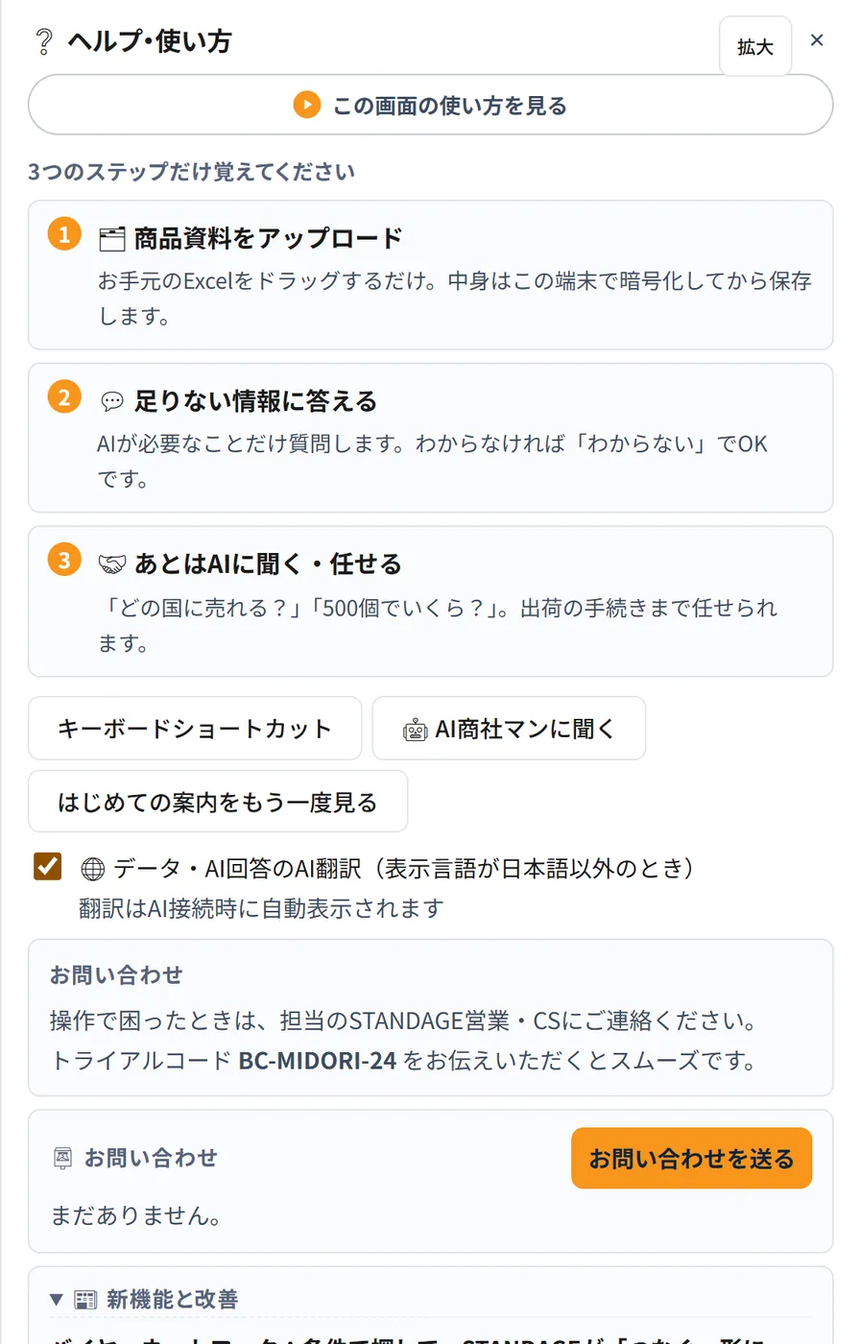
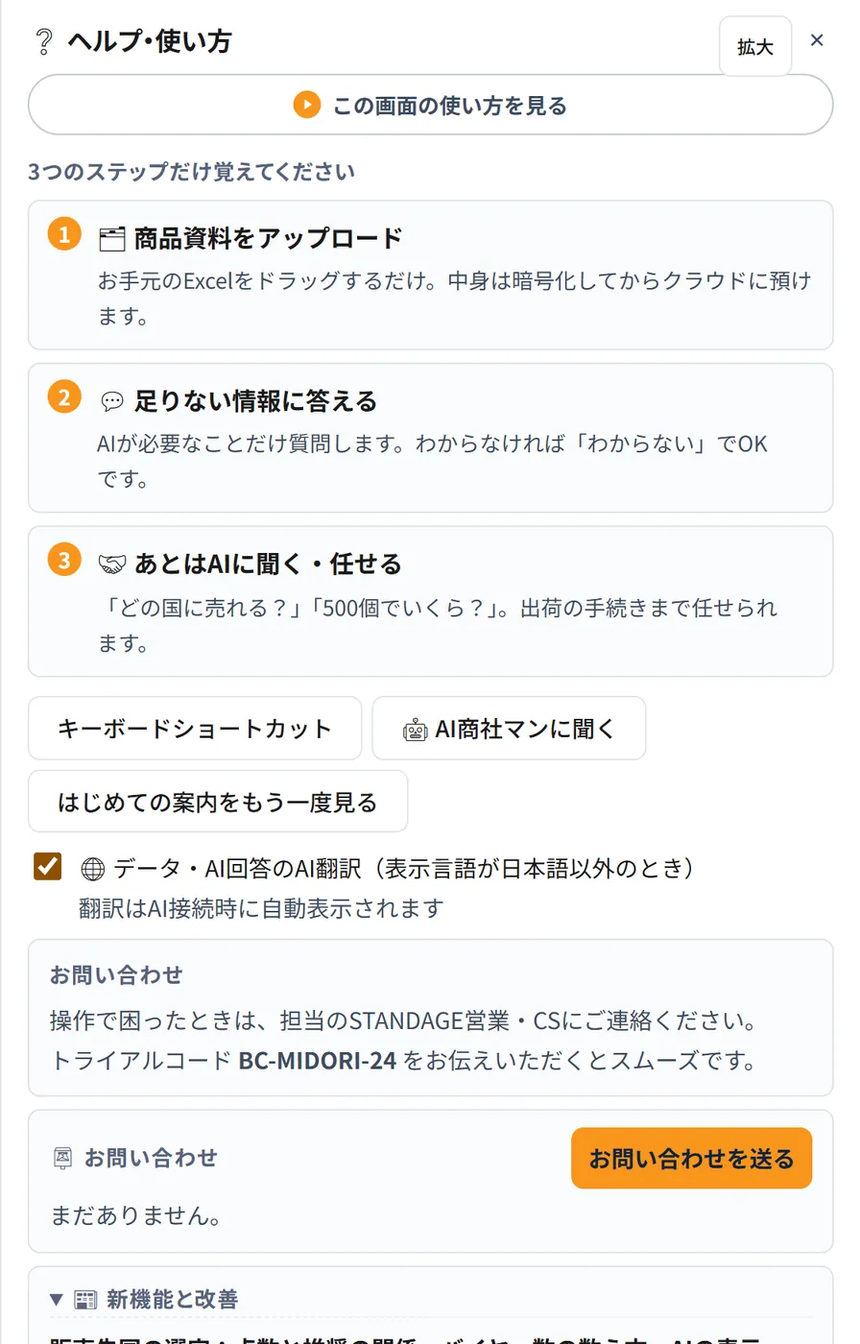
はじめてガイド Ver.3.8.2（アプリ v21.54 に合わせた・guide/ だけ）：ログイン画面・はじめての3ステップ・ヘルプの写真を v21.54 で撮り直し、P.06「知っておくと安心」とよくある質問（タブを閉じると・他社に見られませんか）に「作業中の控えはこの端末のブラウザに置き、ログアウトすると消えます（タブを閉じただけでは残ります）。共用の端末では、使い終わったらログアウト」を、依頼ページの注記を「回答は暗号化して、依頼元に届きます」にした。アプリ本体（index.html・version.json・r.html）は変えていない

diff --git a/guide/index.html b/guide/index.html
@@ -4722,7 +4722,7 @@ button {
       <li data-k="1:1">はじめてのときは<b>「3つのステップ」</b>が表示されます：資料を入れる → 質問に答える → AIに聞く・任せる<span class="sc">画面2</span></li>
       <li data-k="1:4"><b>「さっそく始める」</b>で、商品の登録に進みます<span class="sc">画面2</span></li>
     </ol>
-    <div class="op-box op-tip"><span class="bi"><svg><use href="#i-lock"/></svg></span><h4>知っておくと安心</h4><p>商品データは、端末で暗号化してから保存・同期されます。同時にログインできるのは <b>PC1台＋スマホ1台</b>まで。最後の操作から<b>3時間</b>で自動的にログアウトし、次は前回の画面から始まります。利用期限が過ぎても<b>30日間</b>は読み取り専用で入れ、データを書き出せます。</p></div>
+    <div class="op-box op-tip"><span class="bi"><svg><use href="#i-lock"/></svg></span><h4>知っておくと安心</h4><p>商品・書類などのデータは、サーバーに預ける前に端末で暗号化します。作業中の控えはこの端末のブラウザに置き、ログアウトすると消えます（タブを閉じただけでは残ります）。共用の端末では、使い終わったらログアウトしてください。最後の操作から<b>3時間</b>で自動的にログアウトします。</p></div>
     <div class="op-foot">
       <div class="op-box op-out"><span class="bi"><svg><use href="#i-cloud"/></svg></span><h4>できあがるもの</h4><p>貴社専用の作業スペース（PC・スマホ・メンバーで同じ内容を共有）</p></div>
       <div class="op-box op-why"><span class="bi"><svg><use href="#i-target"/></svg></span><h4>貿易の成功にどう効くか</h4><p>担当者が変わっても、会社の情報とやり取りが1か所に残り続けます。</p></div>
@@ -5084,7 +5084,7 @@ button {
     <h2 class="op-title">書類とファイルを、ドキュメントに集める</h2>
     <p class="op-lead">契約書・証明書・成分表・写真・発注書・船積書類などを1か所に。やりとり・商談記録・メモに付けたファイルも、自動でここに並びます。</p>
     <ol class="op-steps">
-      <li data-k="0:1"><b>「アップロード」</b>（ドラッグ＆ドロップでも）。端末で暗号化して保存します（1件20MBまで）</li>
+      <li data-k="0:1"><b>「アップロード」</b>（ドラッグ＆ドロップでも）。端末で暗号化してからサーバーに預けます（1件20MBまで）</li>
       <li data-k="0:6"><b>種類</b>は名前から自動で判定され、あとで変えられます。<b>公開範囲</b>は 共有／社内のみ／自分だけ</li>
       <li data-k="0:5">種類・アップロード元・公開範囲で絞り込み、<b>まとめてダウンロード</b>もできます</li>
       <li data-k="0:2"><b>「リンクを登録」</b>：Google ドライブなどに置いた資料のリンクも並べられます</li>
@@ -5297,7 +5297,7 @@ button {
       <div class="op-box op-why"><span class="bi"><svg><use href="#i-target"/></svg></span><h4>貿易の成功にどう効くか</h4><p>メールの往復で抜けやすい「数量・条件・必要な書類」を、1回でもれなく集められます。相手の手間も少なく、返事が早くなります。</p></div>
     </div>
   </div>
-  <div class="s-foot"><span class="src">画面は架空の会社「株式会社みどり製茶」の例です。相手の会社名・回答も架空です。回答は暗号化して届き、リンクを知る人だけが読めます</span><span class="pg"></span></div>
+  <div class="s-foot"><span class="src">画面は架空の会社「株式会社みどり製茶」の例です。相手の会社名・回答も架空です。回答は暗号化して、依頼元に届きます</span><span class="pg"></span></div>
 </section>
 <section class="slide op" id="s27e" data-title="㉓ 用語集で、会社の訳をそろえる">
   <div class="op-shot"><div class="tour" data-tour="sc_gl" data-path="左メニュー › 売り先を探す › <b>用語集</b>"></div></div>
@@ -5505,8 +5505,8 @@ button {
       <div class="qa open"><button type="button" aria-expanded="true"><span class="q">Q</span><b>ログインできません</b><i></i></button><div class="a"><div><p>アクセスコード（BC-XXXX-XXXX）とお名前をご確認ください。招待されたメンバーは、<b>招待されたときの氏名</b>で入ります。期限切れ・停止中の表示が出たら、STANDAGEの担当までご連絡ください。利用期限のあと<b>30日間</b>は読み取り専用で入れ、データを書き出せます。</p></div></div></div>
       <div class="qa"><button type="button" aria-expanded="false"><span class="q">Q</span><b>「AI未接続」と表示されます</b><i></i></button><div class="a"><div><p>AIの接続は、STANDAGE（管理者）が設定します。表示が出たら担当にご連絡ください。未接続のあいだも、登録データからの基本の提案は使えます。</p></div></div></div>
       <div class="qa"><button type="button" aria-expanded="false"><span class="q">Q</span><b>別のPCやスマホでも同じ内容が見られますか？</b><i></i></button><div class="a"><div><p>はい。同じアクセスコードで、PC・ブラウザ・スマホのどれからでも同じ内容が使えます。同時にログインできるのは<b>PC1台＋スマホ1台</b>までです。</p></div></div></div>
-      <div class="qa"><button type="button" aria-expanded="false"><span class="q">Q</span><b>タブを閉じると、どうなりますか？</b><i></i></button><div class="a"><div><p>安全のため、<b>タブ（ブラウザ）を閉じるとログアウト</b>します。最後の操作から<b>3時間</b>たったときも自動でログアウトします（5分前にお知らせ）。もう一度ログインすると、<b>前回の画面</b>から始まります。</p></div></div></div>
-      <div class="qa"><button type="button" aria-expanded="false"><span class="q">Q</span><b>入力した情報は、他社に見られませんか？</b><i></i></button><div class="a"><div><p>個社版のAI商社マンは、<b>貴社のデータだけ</b>を見ます（他社のデータは混ざりません）。商品データと書類は端末で暗号化してから保存・同期されます。やりとりは「社内のみ」「共有」、書類とメモは「自分だけ」も選べます。</p></div></div></div>
+      <div class="qa"><button type="button" aria-expanded="false"><span class="q">Q</span><b>タブを閉じると、どうなりますか？</b><i></i></button><div class="a"><div><p>安全のため、<b>タブ（ブラウザ）を閉じるとログアウト</b>します。最後の操作から<b>3時間</b>たったときも自動でログアウトします（5分前にお知らせ）。もう一度ログインすると、<b>前回の画面</b>から始まります。ただし、タブを閉じただけでは作業中の控えが端末に残ります。共用の端末では、<b>ログアウト</b>（上の帯のベルの左）を押してから閉じてください。</p></div></div></div>
+      <div class="qa"><button type="button" aria-expanded="false"><span class="q">Q</span><b>入力した情報は、他社に見られませんか？</b><i></i></button><div class="a"><div><p>個社版のAI商社マンは、<b>貴社のデータだけ</b>を見ます（他社のデータは混ざりません）。商品・書類などのデータは、サーバーに預ける前に端末で暗号化します（端末に置く作業中の控えは、ログアウトで消えます）。やりとりは「社内のみ」「共有」、書類とメモは「自分だけ」も選べます。</p></div></div></div>
       <div class="qa"><button type="button" aria-expanded="false"><span class="q">Q</span><b>資料が読み込めません</b><i></i></button><div class="a"><div><p>対応形式は Excel・CSV・Word・PowerPoint・PDF・画像（PNG/JPEG）・Zip です。Googleドキュメント・スプレッドシート・スライドとOneDriveは<b>URLから取り込めます</b>。Googleドライブのファイル・フォルダは、ダウンロードしてからアップロードしてください。PDF・画像の高精度な読み取りは、AI接続時に使えます。</p></div></div></div>
       <div class="qa"><button type="button" aria-expanded="false"><span class="q">Q</span><b>営業資料の作成ボタンが押せません（🔒）</b><i></i></button><div class="a"><div><p>納品レベルチェックの<b>必須項目</b>（ロゴ・会社概要・沿革・理念・写真3枚・連絡先など）がそろうと作れます（料金プランとは関係ありません）。「AI商社マンと埋める」から入力してください。<button type="button" data-go="s15">P.15</button></p></div></div></div>
       <div class="qa"><button type="button" aria-expanded="false"><span class="q">Q</span><b>登録した内容を直したい</b><i></i></button><div class="a"><div><p>商品情報の各カードの<b>✎</b>で直せます。AIの質問に答えている途中なら「商品名を〇〇に変更して」と入力してもかまいません。AIの答えが違うときは<b>👎</b>で正しい内容を教えてください。間違えて消したものは、<b>チーム › ゴミ箱</b>から30日以内なら元に戻せます。<button type="button" data-go="s27f">P.32</button></p></div></div></div>
@@ -5582,7 +5582,7 @@ button {
         window.parent.postMessage(Object.assign({ bc20guide: 'x' }, m), '*');
     }
     catch (e) { } }
-    const SCN = { "sc_login": { "src": "img/sc_login.webp?v=f41f860d", "w": 488, "h": 806.8, "spots": [{ "n": 1, "x": 51, "y": 390.3, "w": 386, "h": 50.1 }, { "n": 2, "x": 51, "y": 441.4, "w": 386, "h": 50.1 }, { "n": 3, "x": 51, "y": 495.5, "w": 386, "h": 49.8 }, { "n": 4, "x": 51, "y": 634.6, "w": 386, "h": 40 }] }, "sc_welcome": { "src": "img/sc_welcome.webp?v=697c2543", "w": 748, "h": 381.0, "spots": [{ "n": 1, "x": 45, "y": 111, "w": 216.7, "h": 169 }, { "n": 2, "x": 265.7, "y": 111, "w": 216.7, "h": 169 }, { "n": 3, "x": 486.3, "y": 111, "w": 216.7, "h": 169 }, { "n": 4, "x": 552, "y": 288, "w": 151, "h": 48 }] }, "sc_screen": { "src": "img/sc_screen.webp?v=d7c5970a", "w": 1440, "h": 900, "spots": [{ "n": 1, "x": -4, "y": -4, "w": 270, "h": 908 }, { "n": 2, "x": 312, "y": -2.5, "w": 587.8, "h": 51.9 }, { "n": 3, "x": 274, "y": 52, "w": 710.9, "h": 48 }, { "n": 4, "x": 1262, "y": 4.5, "w": 38, "h": 38 }, { "n": 5, "x": 901.8, "y": 0.6, "w": 177.2, "h": 45.8 }, { "n": 6, "x": 1081, "y": -0.5, "w": 99, "h": 48 }, { "n": 7, "x": 1182, "y": 4.5, "w": 78, "h": 38 }, { "n": 8, "x": 1284.5, "y": 824, "w": 137.5, "h": 56 }, { "n": 9, "x": 418.9, "y": 127.2, "w": 133, "h": 38 }] }, "sc_pal": { "src": "img/sc_pal.webp?v=c03b186f", "w": 668, "h": 329.1, "spots": [{ "n": 1, "x": 11, "y": 11, "w": 646, "h": 60.5 }, { "n": 2, "x": 11, "y": 277.5, "w": 646, "h": 40.5 }] }, "sc_help": { "src": "img/sc_help.webp?v=8bebecfa", "w": 560, "h": 875.5, "spots": [{ "n": 1, "x": 14, "y": 43.9, "w": 533, "h": 48 }, { "n": 2, "x": 28, "y": 730.2, "w": 505, "h": 48 }, { "n": 3, "x": 28, "y": 829.7, "w": 505, "h": 31.8 }] }, "sc_up": { "src": "img/sc_up.webp?v=62be84a1", "w": 1178, "h": 700, "spots": [{ "n": 1, "x": 37, "y": 232.1, "w": 1104, "h": 30.1 }, { "n": 2, "x": 37, "y": 295.5, "w": 1104, "h": 217.5 }, { "n": 3, "x": 37, "y": 517, "w": 1104, "h": 79.4 }, { "n": 4, "x": 527.4, "y": 29.5, "w": 136, "h": 49.8 }] }, "sc_upmodal": { "src": "img/sc_upmodal.webp?v=cc714e90", "w": 816, "h": 489.4, "spots": [{ "n": 1, "x": 34, "y": 100.7, "w": 248, "h": 223.3 }, { "n": 2, "x": 284, "y": 100.7, "w": 248, "h": 223.3 }, { "n": 3, "x": 534, "y": 100.7, "w": 248, "h": 223.3 }, { "n": 4, "x": 526, "y": 409.7, "w": 256, "h": 49.8 }] }, "sc_price": { "src": "img/sc_price.webp?v=3c41283e", "w": 1178, "h": 720.7, "spots": [{ "n": 1, "x": 252.5, "y": 12.6, "w": 269.5, "h": 49.8 }, { "n": 2, "x": 520, "y": 12.6, "w": 270, "h": 49.8 }, { "n": 3, "x": 38, "y": 523, "w": 1102, "h": 46.7 }] }, "sc_fob": { "src": "img/sc_fob.webp?v=84b53a48", "w": 720, "h": 936.3, "spots": [{ "n": 1, "x": 30, "y": 66, "w": 661, "h": 228.1 }, { "n": 2, "x": 250.3, "y": 66, "w": 220.3, "h": 228.1 }, { "n": 3, "x": 30, "y": 296.1, "w": 661, "h": 412.2 }, { "n": 4, "x": 30, "y": 869.5, "w": 151, "h": 49.8 }] }, "sc_ddp": { "src": "img/sc_ddp.webp?v=0a65a351", "w": 720, "h": 911.1, "spots": [{ "n": 1, "x": 17, "y": 79.1, "w": 687, "h": 158.3 }, { "n": 2, "x": 17, "y": 239.4, "w": 687, "h": 196.7 }, { "n": 3, "x": 30, "y": 476.3, "w": 661, "h": 366 }, { "n": 4, "x": 30, "y": 773.3, "w": 661, "h": 41.5 }, { "n": 5, "x": 17, "y": 857.3, "w": 526.6, "h": 49.8 }, { "n": 6, "x": 17, "y": 773.3, "w": 674, "h": 133.8 }] }, "sc_fill": { "src": "img/sc_fill.webp?v=0d23cf4b", "w": 1178, "h": 1010, "spots": [{ "n": 1, "x": 37, "y": 20, "w": 626.9, "h": 58.4 }, { "n": 2, "x": 39, "y": 523, "w": 1100, "h": 198.1 }, { "n": 3, "x": 39, "y": 782, "w": 1100, "h": 98 }, { "n": 4, "x": 935.4, "y": 890, "w": 195.6, "h": 49.8 }, { "n": 5, "x": 1054.7, "y": 286.1, "w": 86.3, "h": 32.8 }] }, "sc_item": { "src": "img/sc_item.webp?v=a15a768b", "w": 1178, "h": 965, "spots": [{ "n": 1, "x": 37, "y": 81.6, "w": 617.5, "h": 61.3 }, { "n": 2, "x": 37, "y": 145.9, "w": 1104, "h": 106.7 }, { "n": 3, "x": 830.6, "y": 302.7, "w": 310.4, "h": 49.8 }, { "n": 4, "x": 50, "y": 420.9, "w": 526, "h": 48 }] }, "sc_today": { "src": "img/sc_today.webp?v=6cf7aa28", "w": 1178, "h": 965, "spots": [{ "n": 1, "x": 37, "y": 81.4, "w": 456.9, "h": 59.4 }, { "n": 2, "x": 30, "y": 184, "w": 335.5, "h": 30.4 }, { "n": 3, "x": 58, "y": 273.2, "w": 309.6, "h": 48 }, { "n": 4, "x": 365.6, "y": 273.2, "w": 242, "h": 48 }, { "n": 5, "x": 30, "y": 319.2, "w": 1121, "h": 30.1 }] }, "sc_cty": { "src": "img/sc_cty.webp?v=a6357f30", "w": 1178, "h": 965, "spots": [{ "n": 1, "x": 850.1, "y": 6.8, "w": 315.9, "h": 49.8 }, { "n": 2, "x": 12, "y": 60.6, "w": 1154, "h": 316.1 }, { "n": 3, "x": 891.1, "y": 270.8, "w": 249.9, "h": 49.8 }, { "n": 4, "x": 12, "y": 384.7, "w": 1154, "h": 1200.5 }, { "n": 5, "x": 909.3, "y": 405.7, "w": 142.7, "h": 49.8 }] }, "sc_cty2": { "src": "img/sc_cty2.webp?v=ff879c30", "w": 1178, "h": 965, "spots": [{ "n": 1, "x": 37, "y": 20, "w": 444.6, "h": 49.8 }, { "n": 2, "x": 37, "y": 153.6, "w": 262.8, "h": 408.8 }, { "n": 3, "x": 299.8, "y": 153.6, "w": 262.8, "h": 408.8 }, { "n": 4, "x": 299.8, "y": 153.6, "w": 262.8, "h": 408.8 }, { "n": 5, "x": 37, "y": 563.3, "w": 525.5, "h": 71.5 }] }, "sc_reg": { "src": "img/sc_reg.webp?v=610f2ce0", "w": 1178, "h": 965, "spots": [{ "n": 1, "x": 12, "y": 60.4, "w": 245.3, "h": 78.3 }, { "n": 2, "x": 37, "y": 388.6, "w": 381, "h": 51 }, { "n": 3, "x": 48, "y": 442.6, "w": 1093, "h": 82.7 }, { "n": 4, "x": 37, "y": 528.3, "w": 1104, "h": 61.6 }, { "n": 5, "x": 37, "y": 591.9, "w": 1104, "h": 51.8 }, { "n": 6, "x": 37, "y": 646.7, "w": 233, "h": 49.8 }] }, "sc_deck": { "src": "img/sc_deck.webp?v=8be3fb68", "w": 1178, "h": 965, "spots": [{ "n": 1, "x": 849, "y": 6.8, "w": 317, "h": 49.8 }, { "n": 2, "x": 37, "y": 81.6, "w": 1104, "h": 32.8 }, { "n": 3, "x": 37, "y": 172.9, "w": 305.3, "h": 49.8 }, { "n": 4, "x": 354, "y": 269.5, "w": 224, "h": 103.1 }] }, "sc_deck2": { "src": "img/sc_deck2.webp?v=8292b6ad", "w": 1178, "h": 965, "spots": [{ "n": 1, "x": 37, "y": 94.2, "w": 276, "h": 125.9 }, { "n": 2, "x": 37, "y": 389.5, "w": 220.8, "h": 120.6 }, { "n": 3, "x": 12, "y": 233.1, "w": 1154, "h": 298 }, { "n": 4, "x": 12, "y": 523.1, "w": 1154, "h": 191.2 }] }, "sc_db": { "src": "img/sc_db.webp?v=2a578eb7", "w": 1178, "h": 870, "spots": [{ "n": 1, "x": 12, "y": 4, "w": 1154, "h": 207.6 }, { "n": 2, "x": 37, "y": 384.8, "w": 582, "h": 51 }, { "n": 3, "x": 38, "y": 508.1, "w": 415.9, "h": 64.5 }, { "n": 4, "x": 1034, "y": 519.4, "w": 94, "h": 42 }, { "n": 5, "x": 809, "y": 142.6, "w": 72.7, "h": 48 }, { "n": 6, "x": 14, "y": 213.6, "w": 1150, "h": 54.8 }] }, "sc_cn": { "src": "img/sc_cn.webp?v=ee61c1cd", "w": 920, "h": 630.2, "spots": [{ "n": 1, "x": 14, "y": 37.9, "w": 893, "h": 59 }, { "n": 2, "x": 14, "y": 100.9, "w": 893, "h": 86.3 }, { "n": 3, "x": 14, "y": 221, "w": 893, "h": 44.1 }, { "n": 4, "x": 14, "y": 292.9, "w": 893, "h": 127 }, { "n": 5, "x": 14, "y": 463.4, "w": 893, "h": 32 }, { "n": 6, "x": 14, "y": 501.4, "w": 166, "h": 49.8 }] }, "sc_cnst": { "src": "img/sc_cnst.webp?v=f051fc74", "w": 1178, "h": 300, "spots": [{ "n": 1, "x": 583.2, "y": 109, "w": 397, "h": 27.4 }, { "n": 2, "x": 998, "y": 101.7, "w": 130, "h": 42 }, { "n": 3, "x": 583.2, "y": 165.5, "w": 397, "h": 27.4 }] }, "sc_b30": { "src": "img/sc_b30.webp?v=a2731489", "w": 1178, "h": 1100, "spots": [{ "n": 1, "x": 12, "y": 60.6, "w": 1154, "h": 61.4 }, { "n": 2, "x": 37, "y": 230.9, "w": 169, "h": 49.8 }, { "n": 3, "x": 204, "y": 230.9, "w": 306.1, "h": 49.8 }, { "n": 4, "x": 508.1, "y": 230.9, "w": 106, "h": 49.8 }, { "n": 5, "x": 37, "y": 282.7, "w": 1104, "h": 40.1 }, { "n": 6, "x": 37, "y": 364.8, "w": 1104, "h": 53.5 }, { "n": 7, "x": 1018.7, "y": 366.6, "w": 122.3, "h": 49.8 }, { "n": 8, "x": 38, "y": 536.8, "w": 1102, "h": 86.5 }, { "n": 9, "x": 37, "y": 324.8, "w": 1104, "h": 40 }] }, "sc_b30d": { "src": "img/sc_b30d.webp?v=72ac1977", "w": 720, "h": 982.9, "spots": [{ "n": 1, "x": 51, "y": 11, "w": 566, "h": 188.8 }, { "n": 2, "x": 14, "y": 201.8, "w": 693, "h": 51 }, { "n": 3, "x": 494, "y": 203.3, "w": 103.2, "h": 48 }, { "n": 4, "x": 14, "y": 256.8, "w": 693, "h": 47.8 }, { "n": 5, "x": -4, "y": -4, "w": 728, "h": 1208 }, { "n": 6, "x": 14, "y": 915.2, "w": 574.1, "h": 49.8 }] }, "sc_b30log": { "src": "img/sc_b30log.webp?v=14780a2c", "w": 720, "h": 732.4, "spots": [{ "n": 1, "x": 25, "y": 317.6, "w": 671, "h": 55.5 }, { "n": 2, "x": 25, "y": 371.1, "w": 671, "h": 80 }, { "n": 3, "x": 590, "y": 459.1, "w": 106, "h": 49.8 }, { "n": 4, "x": 14, "y": 519.9, "w": 693, "h": 194.6 }] }, "sc_deal": { "src": "img/sc_deal.webp?v=581ce919", "w": 1178, "h": 1150, "spots": [{ "n": 1, "x": 461.8, "y": 6.8, "w": 169.4, "h": 49.8 }, { "n": 2, "x": 588, "y": 60.6, "w": 578, "h": 61.4 }, { "n": 3, "x": 279.7, "y": 147, "w": 190.7, "h": 48 }, { "n": 4, "x": 694, "y": 159.2, "w": 447, "h": 51 }, { "n": 5, "x": 38, "y": 340.8, "w": 1102, "h": 87.8 }, { "n": 6, "x": 12, "y": 641.5, "w": 1154, "h": 245.6 }, { "n": 7, "x": 1000, "y": 6.8, "w": 166, "h": 49.8 }] }, "sc_dealform": { "src": "img/sc_dealform.webp?v=1d121c7c", "w": 920, "h": 1298.3, "spots": [{ "n": 1, "x": 14, "y": 96.9, "w": 893, "h": 239 }, { "n": 2, "x": 14, "y": 725, "w": 893, "h": 85.8 }, { "n": 3, "x": 14, "y": 882.9, "w": 893, "h": 153.1 }, { "n": 4, "x": 14, "y": 1230.5, "w": 106, "h": 49.8 }] }, "sc_fbc": { "src": "img/sc_fbc.webp?v=f7a2b9d4", "w": 720, "h": 1069.5, "spots": [{ "n": 1, "x": 27, "y": 565.8, "w": 667, "h": 48 }, { "n": 2, "x": 14, "y": 768.8, "w": 693, "h": 282.7 }, { "n": 3, "x": 27, "y": 837.1, "w": 667, "h": 70.2 }, { "n": 4, "x": 558, "y": 990.8, "w": 136, "h": 49.8 }] }, "sc_ship": { "src": "img/sc_ship.webp?v=448318bb", "w": 1178, "h": 1500, "spots": [{ "n": 1, "x": 65.7, "y": 80, "w": 189.8, "h": 48 }, { "n": 2, "x": 12, "y": 146, "w": 1154, "h": 370.3 }, { "n": 7, "x": 173, "y": 293.8, "w": 205.3, "h": 29.5 }, { "n": 3, "x": 73, "y": 849.1, "w": 1066, "h": 160.5 }, { "n": 4, "x": 54, "y": 1675.2, "w": 1087, "h": 249.7 }, { "n": 5, "x": 37, "y": 1017.1, "w": 232.5, "h": 49.8 }, { "n": 6, "x": 37, "y": 1283.6, "w": 1104, "h": 46.3 }] }, "sc_ship4": { "src": "img/sc_ship4.webp?v=c47dd85b", "w": 1178, "h": 740.5, "spots": [{ "n": 1, "x": 67, "y": 402.7, "w": 530.5, "h": 229.8 }, { "n": 2, "x": 67, "y": 632.5, "w": 338, "h": 48 }] }, "sc_legal": { "src": "img/sc_legal.webp?v=9e45ae30", "w": 1178, "h": 965, "spots": [{ "n": 1, "x": 12, "y": 60.4, "w": 1154, "h": 329.9 }, { "n": 2, "x": 12, "y": 393.3, "w": 573, "h": 265.4 }, { "n": 3, "x": 618, "y": 476.5, "w": 523, "h": 124 }, { "n": 4, "x": 12, "y": 705.8, "w": 1154, "h": 33.5 }] }, "sc_docs": { "src": "img/sc_docs.webp?v=7e7db2b2", "w": 1178, "h": 1000, "spots": [{ "n": 1, "x": 743, "y": 6.8, "w": 136, "h": 49.8 }, { "n": 2, "x": 879, "y": 6.8, "w": 136, "h": 49.8 }, { "n": 3, "x": 1015, "y": 6.8, "w": 151, "h": 49.8 }, { "n": 4, "x": 37, "y": 133.3, "w": 1104, "h": 57.8 }, { "n": 5, "x": 37, "y": 193.1, "w": 1104, "h": 53.5 }, { "n": 6, "x": 38, "y": 460.1, "w": 1102, "h": 67 }, { "n": 7, "x": 825, "y": 81.6, "w": 316, "h": 49.8 }] }, "sc_docreq": { "src": "img/sc_docreq.webp?v=8a6c0aa8", "w": 640, "h": 547.2, "spots": [{ "n": 1, "x": 14, "y": 124.4, "w": 613, "h": 53.5 }, { "n": 2, "x": 74, "y": 177.9, "w": 340, "h": 109 }, { "n": 3, "x": 14, "y": 312.7, "w": 613, "h": 111.2 }, { "n": 4, "x": 14, "y": 479.4, "w": 106, "h": 49.8 }] }, "sc_docreq2": { "src": "img/sc_docreq2.webp?v=ffd2363e", "w": 1178, "h": 760, "spots": [{ "n": 1, "x": 49, "y": 141.3, "w": 1080, "h": 33.5 }, { "n": 2, "x": 49, "y": 172.8, "w": 1080, "h": 14 }, { "n": 3, "x": 49, "y": 228.8, "w": 1080, "h": 32.4 }, { "n": 4, "x": 124.8, "y": 184.8, "w": 206, "h": 48 }, { "n": 5, "x": 49, "y": 303.2, "w": 103.2, "h": 48 }] }, "sc_msg": { "src": "img/sc_msg.webp?v=f8a32e73", "w": 1170, "h": 1025.2, "spots": [{ "n": 1, "x": 33, "y": 64.7, "w": 458.6, "h": 49.8 }, { "n": 2, "x": 46, "y": 353.5, "w": 1072, "h": 48.8 }, { "n": 3, "x": 891.3, "y": 662.5, "w": 226.7, "h": 40 }, { "n": 4, "x": 35, "y": 758.1, "w": 1100, "h": 47 }, { "n": 5, "x": 35, "y": 797.1, "w": 1100, "h": 61 }, { "n": 6, "x": 1052, "y": 803.1, "w": 73, "h": 48 }, { "n": 7, "x": 1049, "y": 976.5, "w": 76, "h": 49.8 }] }, "sc_team": { "src": "img/sc_team.webp?v=30bcd983", "w": 1178, "h": 965, "spots": [{ "n": 1, "x": 996.6, "y": 11.3, "w": 169.4, "h": 49.8 }, { "n": 2, "x": 925, "y": 86.1, "w": 216, "h": 32.8 }, { "n": 3, "x": 37, "y": 230.5, "w": 1104, "h": 340.9 }, { "n": 4, "x": 143, "y": 122.9, "w": 122.9, "h": 48.1 }, { "n": 5, "x": 12, "y": 584.4, "w": 1154, "h": 105.2 }] }, "sc_invite": { "src": "img/sc_invite.webp?v=957d8dae", "w": 440, "h": 900.3, "spots": [{ "n": 1, "x": 14, "y": 198.3, "w": 413, "h": 53.5 }, { "n": 2, "x": 14, "y": 354.9, "w": 413, "h": 53.5 }, { "n": 3, "x": 54.7, "y": 451.2, "w": 361.3, "h": 147.5 }, { "n": 4, "x": 59, "y": 650.5, "w": 218, "h": 167 }, { "n": 5, "x": 14, "y": 832.5, "w": 106, "h": 49.8 }] }, "sc_task": { "src": "img/sc_task.webp?v=88038dad", "w": 1178, "h": 965, "spots": [{ "n": 1, "x": 754.1, "y": 6.8, "w": 124.4, "h": 49.8 }, { "n": 2, "x": 878.5, "y": 6.8, "w": 136, "h": 49.8 }, { "n": 3, "x": 1014.5, "y": 7.7, "w": 151.5, "h": 48 }, { "n": 4, "x": 12, "y": 60.6, "w": 573, "h": 170 }, { "n": 5, "x": 170.7, "y": 396, "w": 159.6, "h": 49.8 }, { "n": 6, "x": 38, "y": 550.4, "w": 1102, "h": 70.8 }] }, "sc_taskd": { "src": "img/sc_taskd.webp?v=59f79026", "w": 720, "h": 1042.8, "spots": [{ "n": 1, "x": 14, "y": 71.4, "w": 693, "h": 49.8 }, { "n": 2, "x": 361.5, "y": 201.8, "w": 345.5, "h": 159.2 }, { "n": 3, "x": 120, "y": 558.2, "w": 121, "h": 49.8 }, { "n": 4, "x": 14, "y": 613.9, "w": 693, "h": 185.9 }, { "n": 5, "x": 14, "y": 808.7, "w": 693, "h": 216 }] }, "sc_tl": { "src": "img/sc_tl.webp?v=3ea87885", "w": 585, "h": 627.6, "spots": [{ "n": 1, "x": 6, "y": 6, "w": 573, "h": 615.6 }] }, "sc_memo": { "src": "img/sc_memo.webp?v=b35aca0d", "w": 1178, "h": 1400, "spots": [{ "n": 1, "x": 1026.6, "y": 6.8, "w": 139.4, "h": 49.8 }, { "n": 2, "x": 12, "y": 60.6, "w": 1154, "h": 82.3 }, { "n": 3, "x": 37, "y": 273.9, "w": 435.6, "h": 48 }, { "n": 4, "x": 618, "y": 505.3, "w": 380, "h": 48 }, { "n": 5, "x": 618, "y": 567.3, "w": 241.9, "h": 32 }, { "n": 6, "x": 841, "y": 637.6, "w": 203, "h": 49.8 }, { "n": 7, "x": 618, "y": 689.3, "w": 523, "h": 476.9 }] }, "sc_mtg": { "src": "img/sc_mtg.webp?v=604c72c8", "w": 640, "h": 557.1, "spots": [{ "n": 1, "x": 14, "y": 124, "w": 613, "h": 53.5 }, { "n": 2, "x": 14, "y": 202.6, "w": 613, "h": 55.5 }, { "n": 3, "x": 14, "y": 283.2, "w": 613, "h": 53.5 }, { "n": 4, "x": 14, "y": 361.8, "w": 613, "h": 77.5 }, { "n": 5, "x": 14, "y": 453.3, "w": 613, "h": 32 }, { "n": 6, "x": 14, "y": 489.3, "w": 106, "h": 49.8 }] }, "sc_dash": { "src": "img/sc_dash.webp?v=8ceb5319", "w": 1178, "h": 1450, "spots": [{ "n": 1, "x": 457.5, "y": 10, "w": 421, "h": 49.8 }, { "n": 6, "x": 12, "y": 63.8, "w": 1154, "h": 202.2 }, { "n": 3, "x": 12, "y": 1055, "w": 1154, "h": 76.3 }, { "n": 4, "x": 12, "y": 1133.4, "w": 1154, "h": 243 }, { "n": 5, "x": 1014.5, "y": 10.9, "w": 151.5, "h": 48 }, { "n": 8, "x": 12, "y": 604, "w": 1154, "h": 443 }, { "n": 9, "x": 12, "y": 257.9, "w": 1154, "h": 208.6 }] }, "sc_dash2": { "src": "img/sc_dash2.webp?v=e21d07ad", "w": 1178, "h": 760, "spots": [{ "n": 1, "x": 29, "y": 16, "w": 1120, "h": 97.1 }, { "n": 2, "x": 12, "y": 234.1, "w": 230, "h": 236.9 }] }, "sc_rep": { "src": "img/sc_rep.webp?v=e276ffd6", "w": 940, "h": 1190.5, "spots": [{ "n": 1, "x": 14, "y": 71.4, "w": 913, "h": 48 }, { "n": 2, "x": 14, "y": 150.9, "w": 913, "h": 142.6 }, { "n": 3, "x": 14, "y": 327, "w": 166, "h": 49.8 }, { "n": 4, "x": 178, "y": 327, "w": 274.8, "h": 49.8 }, { "n": 5, "x": 450.8, "y": 327, "w": 136, "h": 49.8 }, { "n": 6, "x": 14, "y": 409, "w": 913, "h": 348 }] }, "sc_week": { "src": "img/sc_week.webp?v=006a36fd", "w": 760, "h": 702.7, "spots": [{ "n": 1, "x": 14, "y": 96.9, "w": 733, "h": 528 }, { "n": 2, "x": 14, "y": 634.9, "w": 110.4, "h": 49.8 }, { "n": 3, "x": 124.4, "y": 634.9, "w": 181, "h": 49.8 }] }, "sc_inbox": { "src": "img/sc_inbox.webp?v=be801360", "w": 1178, "h": 1194.6, "spots": [{ "n": 1, "x": 37, "y": 330.7, "w": 362.7, "h": 788.9 }, { "n": 2, "x": 407.7, "y": 330.7, "w": 362.7, "h": 227.7 }, { "n": 3, "x": 778.3, "y": 330.7, "w": 362.7, "h": 227.7 }, { "n": 4, "x": 37, "y": 275.2, "w": 1104, "h": 53.5 }, { "n": 5, "x": 12, "y": 60.4, "w": 1154, "h": 189.8 }] }, "sc_aq": { "src": "img/sc_aq.webp?v=1fc4630c", "w": 820, "h": 860, "spots": [{ "n": 1, "x": 42, "y": 241.9, "w": 736, "h": 70.3 }, { "n": 2, "x": 42, "y": 346, "w": 736, "h": 49.8 }, { "n": 3, "x": 573.1, "y": 121.5, "w": 219.9, "h": 49.8 }] }, "sc_ckmail": { "src": "img/sc_ckmail.webp?v=9facff59", "w": 440, "h": 1077.8, "spots": [{ "n": 1, "x": 14, "y": 875.7, "w": 413, "h": 97.5 }] }, "sc_ck": { "src": "img/sc_ck.webp?v=d1f47bac", "w": 560, "h": 839.5, "spots": [{ "n": 1, "x": 14, "y": 69, "w": 532, "h": 31.8 }, { "n": 2, "x": 14, "y": 157.8, "w": 532, "h": 129.6 }, { "n": 3, "x": 14, "y": 287.4, "w": 532, "h": 129.6 }, { "n": 4, "x": 14, "y": 650.7, "w": 532, "h": 104.1 }] }, "sc_rqform": { "src": "img/sc_rqform.webp?v=006c6d5b", "w": 820, "h": 860, "spots": [{ "n": 1, "x": 14, "y": 69, "w": 792, "h": 87.7 }, { "n": 2, "x": 14, "y": 346.5, "w": 792, "h": 53.5 }, { "n": 3, "x": 27, "y": 435.8, "w": 766, "h": 152 }, { "n": 4, "x": 670, "y": 802.3, "w": 136, "h": 49.8 }] }, "sc_rqpage": { "src": "img/sc_rqpage.webp?v=4216dde6", "w": 820, "h": 860, "spots": [{ "n": 1, "x": 89, "y": 213.4, "w": 642, "h": 30 }, { "n": 2, "x": 89, "y": 573.1, "w": 642, "h": 116.1 }, { "n": 3, "x": 67, "y": 731.9, "w": 686, "h": 132.1 }] }, "sc_rq": { "src": "img/sc_rq.webp?v=75886bfc", "w": 1178, "h": 329.3, "spots": [{ "n": 1, "x": 37, "y": 139.1, "w": 1104, "h": 78.6 }, { "n": 2, "x": 1031, "y": 223.7, "w": 106, "h": 49.8 }] }, "sc_gl": { "src": "img/sc_gl.webp?v=511610a4", "w": 1178, "h": 709.6, "spots": [{ "n": 1, "x": 37, "y": 107.5, "w": 1104, "h": 51.5 }, { "n": 2, "x": 37, "y": 185.1, "w": 662.4, "h": 51.5 }, { "n": 3, "x": 699.4, "y": 159, "w": 220.8, "h": 77.6 }, { "n": 4, "x": 37, "y": 295.3, "w": 1104, "h": 33.5 }, { "n": 5, "x": 37, "y": 368.6, "w": 1104, "h": 300 }] }, "sc_trash": { "src": "img/sc_trash.webp?v=8c3f1104", "w": 1178, "h": 308.2, "spots": [{ "n": 1, "x": 910, "y": 150.8, "w": 106, "h": 49.8 }, { "n": 2, "x": 137.1, "y": 81.4, "w": 119.1, "h": 52.5 }, { "n": 3, "x": 252.2, "y": 81.4, "w": 134.1, "h": 52.5 }, { "n": 4, "x": 1016, "y": 150.8, "w": 121, "h": 49.8 }] }, "sc_ai": { "src": "img/sc_ai.webp?v=e5f0f199", "w": 1178, "h": 991.7, "spots": [{ "n": 1, "x": 994.5, "y": 12, "w": 146.5, "h": 32.8 }, { "n": 2, "x": 39, "y": 283.8, "w": 1100, "h": 336.3 }, { "n": 3, "x": 86, "y": 496.8, "w": 882.5, "h": 37.8 }, { "n": 4, "x": 86, "y": 534.6, "w": 882.5, "h": 47.9 }, { "n": 5, "x": 37, "y": 627.1, "w": 1104, "h": 134.9 }, { "n": 6, "x": 39, "y": 917, "w": 1100, "h": 62.8 }, { "n": 7, "x": 949.4, "y": 51.8, "w": 180.6, "h": 48 }] }, "sc_aihow": { "src": "img/sc_aihow.webp?v=767ef825", "w": 1178, "h": 889.1, "spots": [{ "n": 1, "x": 73, "y": 224.8, "w": 225.5, "h": 56 }, { "n": 2, "x": 86, "y": 327.8, "w": 1040, "h": 175.3 }, { "n": 3, "x": 86, "y": 524.8, "w": 273.7, "h": 44.7 }, { "n": 4, "x": 86, "y": 578.5, "w": 1040, "h": 69.3 }, { "n": 5, "x": 224.2, "y": 828.8, "w": 177.3, "h": 46.3 }] }, "sc_ai2": { "src": "img/sc_ai2.webp?v=eca1e309", "w": 1178, "h": 906.6, "spots": [{ "n": 1, "x": 652.4, "y": 371.8, "w": 31, "h": 26 }, { "n": 2, "x": 86, "y": 573.9, "w": 150.6, "h": 38 }, { "n": 3, "x": 86, "y": 714.4, "w": 1040, "h": 32.5 }] }, "sc_grow": { "src": "img/sc_grow.webp?v=aa6fa5b4", "w": 1178, "h": 700, "spots": [{ "n": 1, "x": 62, "y": 101.4, "w": 496, "h": 409.5 }, { "n": 2, "x": 62, "y": 525, "w": 496, "h": 94.1 }, { "n": 3, "x": 62, "y": 429.4, "w": 496, "h": 81.5 }, { "n": 4, "x": 595, "y": 76.4, "w": 546, "h": 35.2 }, { "n": 5, "x": 12, "y": -9, "w": 1154, "h": 865 }] } };
+    const SCN = { "sc_login": { "src": "img/sc_login.webp?v=2db6b4e4", "w": 488, "h": 806.8, "spots": [{ "n": 1, "x": 51, "y": 390.3, "w": 386, "h": 50.1 }, { "n": 2, "x": 51, "y": 441.4, "w": 386, "h": 50.1 }, { "n": 3, "x": 51, "y": 495.5, "w": 386, "h": 49.8 }, { "n": 4, "x": 51, "y": 634.6, "w": 386, "h": 40 }] }, "sc_welcome": { "src": "img/sc_welcome.webp?v=b3896aef", "w": 748, "h": 381.0, "spots": [{ "n": 1, "x": 45, "y": 111, "w": 216.7, "h": 169 }, { "n": 2, "x": 265.7, "y": 111, "w": 216.7, "h": 169 }, { "n": 3, "x": 486.3, "y": 111, "w": 216.7, "h": 169 }, { "n": 4, "x": 552, "y": 288, "w": 151, "h": 48 }] }, "sc_screen": { "src": "img/sc_screen.webp?v=d7c5970a", "w": 1440, "h": 900, "spots": [{ "n": 1, "x": -4, "y": -4, "w": 270, "h": 908 }, { "n": 2, "x": 312, "y": -2.5, "w": 587.8, "h": 51.9 }, { "n": 3, "x": 274, "y": 52, "w": 710.9, "h": 48 }, { "n": 4, "x": 1262, "y": 4.5, "w": 38, "h": 38 }, { "n": 5, "x": 901.8, "y": 0.6, "w": 177.2, "h": 45.8 }, { "n": 6, "x": 1081, "y": -0.5, "w": 99, "h": 48 }, { "n": 7, "x": 1182, "y": 4.5, "w": 78, "h": 38 }, { "n": 8, "x": 1284.5, "y": 824, "w": 137.5, "h": 56 }, { "n": 9, "x": 418.9, "y": 127.2, "w": 133, "h": 38 }] }, "sc_pal": { "src": "img/sc_pal.webp?v=c03b186f", "w": 668, "h": 329.1, "spots": [{ "n": 1, "x": 11, "y": 11, "w": 646, "h": 60.5 }, { "n": 2, "x": 11, "y": 277.5, "w": 646, "h": 40.5 }] }, "sc_help": { "src": "img/sc_help.webp?v=6ce28542", "w": 560, "h": 875.5, "spots": [{ "n": 1, "x": 14, "y": 43.9, "w": 533, "h": 48 }, { "n": 2, "x": 28, "y": 730.2, "w": 505, "h": 48 }, { "n": 3, "x": 28, "y": 829.7, "w": 505, "h": 31.8 }] }, "sc_up": { "src": "img/sc_up.webp?v=62be84a1", "w": 1178, "h": 700, "spots": [{ "n": 1, "x": 37, "y": 232.1, "w": 1104, "h": 30.1 }, { "n": 2, "x": 37, "y": 295.5, "w": 1104, "h": 217.5 }, { "n": 3, "x": 37, "y": 517, "w": 1104, "h": 79.4 }, { "n": 4, "x": 527.4, "y": 29.5, "w": 136, "h": 49.8 }] }, "sc_upmodal": { "src": "img/sc_upmodal.webp?v=cc714e90", "w": 816, "h": 489.4, "spots": [{ "n": 1, "x": 34, "y": 100.7, "w": 248, "h": 223.3 }, { "n": 2, "x": 284, "y": 100.7, "w": 248, "h": 223.3 }, { "n": 3, "x": 534, "y": 100.7, "w": 248, "h": 223.3 }, { "n": 4, "x": 526, "y": 409.7, "w": 256, "h": 49.8 }] }, "sc_price": { "src": "img/sc_price.webp?v=3c41283e", "w": 1178, "h": 720.7, "spots": [{ "n": 1, "x": 252.5, "y": 12.6, "w": 269.5, "h": 49.8 }, { "n": 2, "x": 520, "y": 12.6, "w": 270, "h": 49.8 }, { "n": 3, "x": 38, "y": 523, "w": 1102, "h": 46.7 }] }, "sc_fob": { "src": "img/sc_fob.webp?v=84b53a48", "w": 720, "h": 936.3, "spots": [{ "n": 1, "x": 30, "y": 66, "w": 661, "h": 228.1 }, { "n": 2, "x": 250.3, "y": 66, "w": 220.3, "h": 228.1 }, { "n": 3, "x": 30, "y": 296.1, "w": 661, "h": 412.2 }, { "n": 4, "x": 30, "y": 869.5, "w": 151, "h": 49.8 }] }, "sc_ddp": { "src": "img/sc_ddp.webp?v=0a65a351", "w": 720, "h": 911.1, "spots": [{ "n": 1, "x": 17, "y": 79.1, "w": 687, "h": 158.3 }, { "n": 2, "x": 17, "y": 239.4, "w": 687, "h": 196.7 }, { "n": 3, "x": 30, "y": 476.3, "w": 661, "h": 366 }, { "n": 4, "x": 30, "y": 773.3, "w": 661, "h": 41.5 }, { "n": 5, "x": 17, "y": 857.3, "w": 526.6, "h": 49.8 }, { "n": 6, "x": 17, "y": 773.3, "w": 674, "h": 133.8 }] }, "sc_fill": { "src": "img/sc_fill.webp?v=0d23cf4b", "w": 1178, "h": 1010, "spots": [{ "n": 1, "x": 37, "y": 20, "w": 626.9, "h": 58.4 }, { "n": 2, "x": 39, "y": 523, "w": 1100, "h": 198.1 }, { "n": 3, "x": 39, "y": 782, "w": 1100, "h": 98 }, { "n": 4, "x": 935.4, "y": 890, "w": 195.6, "h": 49.8 }, { "n": 5, "x": 1054.7, "y": 286.1, "w": 86.3, "h": 32.8 }] }, "sc_item": { "src": "img/sc_item.webp?v=a15a768b", "w": 1178, "h": 965, "spots": [{ "n": 1, "x": 37, "y": 81.6, "w": 617.5, "h": 61.3 }, { "n": 2, "x": 37, "y": 145.9, "w": 1104, "h": 106.7 }, { "n": 3, "x": 830.6, "y": 302.7, "w": 310.4, "h": 49.8 }, { "n": 4, "x": 50, "y": 420.9, "w": 526, "h": 48 }] }, "sc_today": { "src": "img/sc_today.webp?v=6cf7aa28", "w": 1178, "h": 965, "spots": [{ "n": 1, "x": 37, "y": 81.4, "w": 456.9, "h": 59.4 }, { "n": 2, "x": 30, "y": 184, "w": 335.5, "h": 30.4 }, { "n": 3, "x": 58, "y": 273.2, "w": 309.6, "h": 48 }, { "n": 4, "x": 365.6, "y": 273.2, "w": 242, "h": 48 }, { "n": 5, "x": 30, "y": 319.2, "w": 1121, "h": 30.1 }] }, "sc_cty": { "src": "img/sc_cty.webp?v=a6357f30", "w": 1178, "h": 965, "spots": [{ "n": 1, "x": 850.1, "y": 6.8, "w": 315.9, "h": 49.8 }, { "n": 2, "x": 12, "y": 60.6, "w": 1154, "h": 316.1 }, { "n": 3, "x": 891.1, "y": 270.8, "w": 249.9, "h": 49.8 }, { "n": 4, "x": 12, "y": 384.7, "w": 1154, "h": 1200.5 }, { "n": 5, "x": 909.3, "y": 405.7, "w": 142.7, "h": 49.8 }] }, "sc_cty2": { "src": "img/sc_cty2.webp?v=ff879c30", "w": 1178, "h": 965, "spots": [{ "n": 1, "x": 37, "y": 20, "w": 444.6, "h": 49.8 }, { "n": 2, "x": 37, "y": 153.6, "w": 262.8, "h": 408.8 }, { "n": 3, "x": 299.8, "y": 153.6, "w": 262.8, "h": 408.8 }, { "n": 4, "x": 299.8, "y": 153.6, "w": 262.8, "h": 408.8 }, { "n": 5, "x": 37, "y": 563.3, "w": 525.5, "h": 71.5 }] }, "sc_reg": { "src": "img/sc_reg.webp?v=610f2ce0", "w": 1178, "h": 965, "spots": [{ "n": 1, "x": 12, "y": 60.4, "w": 245.3, "h": 78.3 }, { "n": 2, "x": 37, "y": 388.6, "w": 381, "h": 51 }, { "n": 3, "x": 48, "y": 442.6, "w": 1093, "h": 82.7 }, { "n": 4, "x": 37, "y": 528.3, "w": 1104, "h": 61.6 }, { "n": 5, "x": 37, "y": 591.9, "w": 1104, "h": 51.8 }, { "n": 6, "x": 37, "y": 646.7, "w": 233, "h": 49.8 }] }, "sc_deck": { "src": "img/sc_deck.webp?v=8be3fb68", "w": 1178, "h": 965, "spots": [{ "n": 1, "x": 849, "y": 6.8, "w": 317, "h": 49.8 }, { "n": 2, "x": 37, "y": 81.6, "w": 1104, "h": 32.8 }, { "n": 3, "x": 37, "y": 172.9, "w": 305.3, "h": 49.8 }, { "n": 4, "x": 354, "y": 269.5, "w": 224, "h": 103.1 }] }, "sc_deck2": { "src": "img/sc_deck2.webp?v=8292b6ad", "w": 1178, "h": 965, "spots": [{ "n": 1, "x": 37, "y": 94.2, "w": 276, "h": 125.9 }, { "n": 2, "x": 37, "y": 389.5, "w": 220.8, "h": 120.6 }, { "n": 3, "x": 12, "y": 233.1, "w": 1154, "h": 298 }, { "n": 4, "x": 12, "y": 523.1, "w": 1154, "h": 191.2 }] }, "sc_db": { "src": "img/sc_db.webp?v=2a578eb7", "w": 1178, "h": 870, "spots": [{ "n": 1, "x": 12, "y": 4, "w": 1154, "h": 207.6 }, { "n": 2, "x": 37, "y": 384.8, "w": 582, "h": 51 }, { "n": 3, "x": 38, "y": 508.1, "w": 415.9, "h": 64.5 }, { "n": 4, "x": 1034, "y": 519.4, "w": 94, "h": 42 }, { "n": 5, "x": 809, "y": 142.6, "w": 72.7, "h": 48 }, { "n": 6, "x": 14, "y": 213.6, "w": 1150, "h": 54.8 }] }, "sc_cn": { "src": "img/sc_cn.webp?v=ee61c1cd", "w": 920, "h": 630.2, "spots": [{ "n": 1, "x": 14, "y": 37.9, "w": 893, "h": 59 }, { "n": 2, "x": 14, "y": 100.9, "w": 893, "h": 86.3 }, { "n": 3, "x": 14, "y": 221, "w": 893, "h": 44.1 }, { "n": 4, "x": 14, "y": 292.9, "w": 893, "h": 127 }, { "n": 5, "x": 14, "y": 463.4, "w": 893, "h": 32 }, { "n": 6, "x": 14, "y": 501.4, "w": 166, "h": 49.8 }] }, "sc_cnst": { "src": "img/sc_cnst.webp?v=f051fc74", "w": 1178, "h": 300, "spots": [{ "n": 1, "x": 583.2, "y": 109, "w": 397, "h": 27.4 }, { "n": 2, "x": 998, "y": 101.7, "w": 130, "h": 42 }, { "n": 3, "x": 583.2, "y": 165.5, "w": 397, "h": 27.4 }] }, "sc_b30": { "src": "img/sc_b30.webp?v=a2731489", "w": 1178, "h": 1100, "spots": [{ "n": 1, "x": 12, "y": 60.6, "w": 1154, "h": 61.4 }, { "n": 2, "x": 37, "y": 230.9, "w": 169, "h": 49.8 }, { "n": 3, "x": 204, "y": 230.9, "w": 306.1, "h": 49.8 }, { "n": 4, "x": 508.1, "y": 230.9, "w": 106, "h": 49.8 }, { "n": 5, "x": 37, "y": 282.7, "w": 1104, "h": 40.1 }, { "n": 6, "x": 37, "y": 364.8, "w": 1104, "h": 53.5 }, { "n": 7, "x": 1018.7, "y": 366.6, "w": 122.3, "h": 49.8 }, { "n": 8, "x": 38, "y": 536.8, "w": 1102, "h": 86.5 }, { "n": 9, "x": 37, "y": 324.8, "w": 1104, "h": 40 }] }, "sc_b30d": { "src": "img/sc_b30d.webp?v=72ac1977", "w": 720, "h": 982.9, "spots": [{ "n": 1, "x": 51, "y": 11, "w": 566, "h": 188.8 }, { "n": 2, "x": 14, "y": 201.8, "w": 693, "h": 51 }, { "n": 3, "x": 494, "y": 203.3, "w": 103.2, "h": 48 }, { "n": 4, "x": 14, "y": 256.8, "w": 693, "h": 47.8 }, { "n": 5, "x": -4, "y": -4, "w": 728, "h": 1208 }, { "n": 6, "x": 14, "y": 915.2, "w": 574.1, "h": 49.8 }] }, "sc_b30log": { "src": "img/sc_b30log.webp?v=14780a2c", "w": 720, "h": 732.4, "spots": [{ "n": 1, "x": 25, "y": 317.6, "w": 671, "h": 55.5 }, { "n": 2, "x": 25, "y": 371.1, "w": 671, "h": 80 }, { "n": 3, "x": 590, "y": 459.1, "w": 106, "h": 49.8 }, { "n": 4, "x": 14, "y": 519.9, "w": 693, "h": 194.6 }] }, "sc_deal": { "src": "img/sc_deal.webp?v=581ce919", "w": 1178, "h": 1150, "spots": [{ "n": 1, "x": 461.8, "y": 6.8, "w": 169.4, "h": 49.8 }, { "n": 2, "x": 588, "y": 60.6, "w": 578, "h": 61.4 }, { "n": 3, "x": 279.7, "y": 147, "w": 190.7, "h": 48 }, { "n": 4, "x": 694, "y": 159.2, "w": 447, "h": 51 }, { "n": 5, "x": 38, "y": 340.8, "w": 1102, "h": 87.8 }, { "n": 6, "x": 12, "y": 641.5, "w": 1154, "h": 245.6 }, { "n": 7, "x": 1000, "y": 6.8, "w": 166, "h": 49.8 }] }, "sc_dealform": { "src": "img/sc_dealform.webp?v=1d121c7c", "w": 920, "h": 1298.3, "spots": [{ "n": 1, "x": 14, "y": 96.9, "w": 893, "h": 239 }, { "n": 2, "x": 14, "y": 725, "w": 893, "h": 85.8 }, { "n": 3, "x": 14, "y": 882.9, "w": 893, "h": 153.1 }, { "n": 4, "x": 14, "y": 1230.5, "w": 106, "h": 49.8 }] }, "sc_fbc": { "src": "img/sc_fbc.webp?v=f7a2b9d4", "w": 720, "h": 1069.5, "spots": [{ "n": 1, "x": 27, "y": 565.8, "w": 667, "h": 48 }, { "n": 2, "x": 14, "y": 768.8, "w": 693, "h": 282.7 }, { "n": 3, "x": 27, "y": 837.1, "w": 667, "h": 70.2 }, { "n": 4, "x": 558, "y": 990.8, "w": 136, "h": 49.8 }] }, "sc_ship": { "src": "img/sc_ship.webp?v=448318bb", "w": 1178, "h": 1500, "spots": [{ "n": 1, "x": 65.7, "y": 80, "w": 189.8, "h": 48 }, { "n": 2, "x": 12, "y": 146, "w": 1154, "h": 370.3 }, { "n": 7, "x": 173, "y": 293.8, "w": 205.3, "h": 29.5 }, { "n": 3, "x": 73, "y": 849.1, "w": 1066, "h": 160.5 }, { "n": 4, "x": 54, "y": 1675.2, "w": 1087, "h": 249.7 }, { "n": 5, "x": 37, "y": 1017.1, "w": 232.5, "h": 49.8 }, { "n": 6, "x": 37, "y": 1283.6, "w": 1104, "h": 46.3 }] }, "sc_ship4": { "src": "img/sc_ship4.webp?v=c47dd85b", "w": 1178, "h": 740.5, "spots": [{ "n": 1, "x": 67, "y": 402.7, "w": 530.5, "h": 229.8 }, { "n": 2, "x": 67, "y": 632.5, "w": 338, "h": 48 }] }, "sc_legal": { "src": "img/sc_legal.webp?v=9e45ae30", "w": 1178, "h": 965, "spots": [{ "n": 1, "x": 12, "y": 60.4, "w": 1154, "h": 329.9 }, { "n": 2, "x": 12, "y": 393.3, "w": 573, "h": 265.4 }, { "n": 3, "x": 618, "y": 476.5, "w": 523, "h": 124 }, { "n": 4, "x": 12, "y": 705.8, "w": 1154, "h": 33.5 }] }, "sc_docs": { "src": "img/sc_docs.webp?v=7e7db2b2", "w": 1178, "h": 1000, "spots": [{ "n": 1, "x": 743, "y": 6.8, "w": 136, "h": 49.8 }, { "n": 2, "x": 879, "y": 6.8, "w": 136, "h": 49.8 }, { "n": 3, "x": 1015, "y": 6.8, "w": 151, "h": 49.8 }, { "n": 4, "x": 37, "y": 133.3, "w": 1104, "h": 57.8 }, { "n": 5, "x": 37, "y": 193.1, "w": 1104, "h": 53.5 }, { "n": 6, "x": 38, "y": 460.1, "w": 1102, "h": 67 }, { "n": 7, "x": 825, "y": 81.6, "w": 316, "h": 49.8 }] }, "sc_docreq": { "src": "img/sc_docreq.webp?v=8a6c0aa8", "w": 640, "h": 547.2, "spots": [{ "n": 1, "x": 14, "y": 124.4, "w": 613, "h": 53.5 }, { "n": 2, "x": 74, "y": 177.9, "w": 340, "h": 109 }, { "n": 3, "x": 14, "y": 312.7, "w": 613, "h": 111.2 }, { "n": 4, "x": 14, "y": 479.4, "w": 106, "h": 49.8 }] }, "sc_docreq2": { "src": "img/sc_docreq2.webp?v=ffd2363e", "w": 1178, "h": 760, "spots": [{ "n": 1, "x": 49, "y": 141.3, "w": 1080, "h": 33.5 }, { "n": 2, "x": 49, "y": 172.8, "w": 1080, "h": 14 }, { "n": 3, "x": 49, "y": 228.8, "w": 1080, "h": 32.4 }, { "n": 4, "x": 124.8, "y": 184.8, "w": 206, "h": 48 }, { "n": 5, "x": 49, "y": 303.2, "w": 103.2, "h": 48 }] }, "sc_msg": { "src": "img/sc_msg.webp?v=f8a32e73", "w": 1170, "h": 1025.2, "spots": [{ "n": 1, "x": 33, "y": 64.7, "w": 458.6, "h": 49.8 }, { "n": 2, "x": 46, "y": 353.5, "w": 1072, "h": 48.8 }, { "n": 3, "x": 891.3, "y": 662.5, "w": 226.7, "h": 40 }, { "n": 4, "x": 35, "y": 758.1, "w": 1100, "h": 47 }, { "n": 5, "x": 35, "y": 797.1, "w": 1100, "h": 61 }, { "n": 6, "x": 1052, "y": 803.1, "w": 73, "h": 48 }, { "n": 7, "x": 1049, "y": 976.5, "w": 76, "h": 49.8 }] }, "sc_team": { "src": "img/sc_team.webp?v=30bcd983", "w": 1178, "h": 965, "spots": [{ "n": 1, "x": 996.6, "y": 11.3, "w": 169.4, "h": 49.8 }, { "n": 2, "x": 925, "y": 86.1, "w": 216, "h": 32.8 }, { "n": 3, "x": 37, "y": 230.5, "w": 1104, "h": 340.9 }, { "n": 4, "x": 143, "y": 122.9, "w": 122.9, "h": 48.1 }, { "n": 5, "x": 12, "y": 584.4, "w": 1154, "h": 105.2 }] }, "sc_invite": { "src": "img/sc_invite.webp?v=957d8dae", "w": 440, "h": 900.3, "spots": [{ "n": 1, "x": 14, "y": 198.3, "w": 413, "h": 53.5 }, { "n": 2, "x": 14, "y": 354.9, "w": 413, "h": 53.5 }, { "n": 3, "x": 54.7, "y": 451.2, "w": 361.3, "h": 147.5 }, { "n": 4, "x": 59, "y": 650.5, "w": 218, "h": 167 }, { "n": 5, "x": 14, "y": 832.5, "w": 106, "h": 49.8 }] }, "sc_task": { "src": "img/sc_task.webp?v=88038dad", "w": 1178, "h": 965, "spots": [{ "n": 1, "x": 754.1, "y": 6.8, "w": 124.4, "h": 49.8 }, { "n": 2, "x": 878.5, "y": 6.8, "w": 136, "h": 49.8 }, { "n": 3, "x": 1014.5, "y": 7.7, "w": 151.5, "h": 48 }, { "n": 4, "x": 12, "y": 60.6, "w": 573, "h": 170 }, { "n": 5, "x": 170.7, "y": 396, "w": 159.6, "h": 49.8 }, { "n": 6, "x": 38, "y": 550.4, "w": 1102, "h": 70.8 }] }, "sc_taskd": { "src": "img/sc_taskd.webp?v=59f79026", "w": 720, "h": 1042.8, "spots": [{ "n": 1, "x": 14, "y": 71.4, "w": 693, "h": 49.8 }, { "n": 2, "x": 361.5, "y": 201.8, "w": 345.5, "h": 159.2 }, { "n": 3, "x": 120, "y": 558.2, "w": 121, "h": 49.8 }, { "n": 4, "x": 14, "y": 613.9, "w": 693, "h": 185.9 }, { "n": 5, "x": 14, "y": 808.7, "w": 693, "h": 216 }] }, "sc_tl": { "src": "img/sc_tl.webp?v=3ea87885", "w": 585, "h": 627.6, "spots": [{ "n": 1, "x": 6, "y": 6, "w": 573, "h": 615.6 }] }, "sc_memo": { "src": "img/sc_memo.webp?v=b35aca0d", "w": 1178, "h": 1400, "spots": [{ "n": 1, "x": 1026.6, "y": 6.8, "w": 139.4, "h": 49.8 }, { "n": 2, "x": 12, "y": 60.6, "w": 1154, "h": 82.3 }, { "n": 3, "x": 37, "y": 273.9, "w": 435.6, "h": 48 }, { "n": 4, "x": 618, "y": 505.3, "w": 380, "h": 48 }, { "n": 5, "x": 618, "y": 567.3, "w": 241.9, "h": 32 }, { "n": 6, "x": 841, "y": 637.6, "w": 203, "h": 49.8 }, { "n": 7, "x": 618, "y": 689.3, "w": 523, "h": 476.9 }] }, "sc_mtg": { "src": "img/sc_mtg.webp?v=604c72c8", "w": 640, "h": 557.1, "spots": [{ "n": 1, "x": 14, "y": 124, "w": 613, "h": 53.5 }, { "n": 2, "x": 14, "y": 202.6, "w": 613, "h": 55.5 }, { "n": 3, "x": 14, "y": 283.2, "w": 613, "h": 53.5 }, { "n": 4, "x": 14, "y": 361.8, "w": 613, "h": 77.5 }, { "n": 5, "x": 14, "y": 453.3, "w": 613, "h": 32 }, { "n": 6, "x": 14, "y": 489.3, "w": 106, "h": 49.8 }] }, "sc_dash": { "src": "img/sc_dash.webp?v=8ceb5319", "w": 1178, "h": 1450, "spots": [{ "n": 1, "x": 457.5, "y": 10, "w": 421, "h": 49.8 }, { "n": 6, "x": 12, "y": 63.8, "w": 1154, "h": 202.2 }, { "n": 3, "x": 12, "y": 1055, "w": 1154, "h": 76.3 }, { "n": 4, "x": 12, "y": 1133.4, "w": 1154, "h": 243 }, { "n": 5, "x": 1014.5, "y": 10.9, "w": 151.5, "h": 48 }, { "n": 8, "x": 12, "y": 604, "w": 1154, "h": 443 }, { "n": 9, "x": 12, "y": 257.9, "w": 1154, "h": 208.6 }] }, "sc_dash2": { "src": "img/sc_dash2.webp?v=e21d07ad", "w": 1178, "h": 760, "spots": [{ "n": 1, "x": 29, "y": 16, "w": 1120, "h": 97.1 }, { "n": 2, "x": 12, "y": 234.1, "w": 230, "h": 236.9 }] }, "sc_rep": { "src": "img/sc_rep.webp?v=e276ffd6", "w": 940, "h": 1190.5, "spots": [{ "n": 1, "x": 14, "y": 71.4, "w": 913, "h": 48 }, { "n": 2, "x": 14, "y": 150.9, "w": 913, "h": 142.6 }, { "n": 3, "x": 14, "y": 327, "w": 166, "h": 49.8 }, { "n": 4, "x": 178, "y": 327, "w": 274.8, "h": 49.8 }, { "n": 5, "x": 450.8, "y": 327, "w": 136, "h": 49.8 }, { "n": 6, "x": 14, "y": 409, "w": 913, "h": 348 }] }, "sc_week": { "src": "img/sc_week.webp?v=006a36fd", "w": 760, "h": 702.7, "spots": [{ "n": 1, "x": 14, "y": 96.9, "w": 733, "h": 528 }, { "n": 2, "x": 14, "y": 634.9, "w": 110.4, "h": 49.8 }, { "n": 3, "x": 124.4, "y": 634.9, "w": 181, "h": 49.8 }] }, "sc_inbox": { "src": "img/sc_inbox.webp?v=be801360", "w": 1178, "h": 1194.6, "spots": [{ "n": 1, "x": 37, "y": 330.7, "w": 362.7, "h": 788.9 }, { "n": 2, "x": 407.7, "y": 330.7, "w": 362.7, "h": 227.7 }, { "n": 3, "x": 778.3, "y": 330.7, "w": 362.7, "h": 227.7 }, { "n": 4, "x": 37, "y": 275.2, "w": 1104, "h": 53.5 }, { "n": 5, "x": 12, "y": 60.4, "w": 1154, "h": 189.8 }] }, "sc_aq": { "src": "img/sc_aq.webp?v=1fc4630c", "w": 820, "h": 860, "spots": [{ "n": 1, "x": 42, "y": 241.9, "w": 736, "h": 70.3 }, { "n": 2, "x": 42, "y": 346, "w": 736, "h": 49.8 }, { "n": 3, "x": 573.1, "y": 121.5, "w": 219.9, "h": 49.8 }] }, "sc_ckmail": { "src": "img/sc_ckmail.webp?v=9facff59", "w": 440, "h": 1077.8, "spots": [{ "n": 1, "x": 14, "y": 875.7, "w": 413, "h": 97.5 }] }, "sc_ck": { "src": "img/sc_ck.webp?v=d1f47bac", "w": 560, "h": 839.5, "spots": [{ "n": 1, "x": 14, "y": 69, "w": 532, "h": 31.8 }, { "n": 2, "x": 14, "y": 157.8, "w": 532, "h": 129.6 }, { "n": 3, "x": 14, "y": 287.4, "w": 532, "h": 129.6 }, { "n": 4, "x": 14, "y": 650.7, "w": 532, "h": 104.1 }] }, "sc_rqform": { "src": "img/sc_rqform.webp?v=006c6d5b", "w": 820, "h": 860, "spots": [{ "n": 1, "x": 14, "y": 69, "w": 792, "h": 87.7 }, { "n": 2, "x": 14, "y": 346.5, "w": 792, "h": 53.5 }, { "n": 3, "x": 27, "y": 435.8, "w": 766, "h": 152 }, { "n": 4, "x": 670, "y": 802.3, "w": 136, "h": 49.8 }] }, "sc_rqpage": { "src": "img/sc_rqpage.webp?v=4216dde6", "w": 820, "h": 860, "spots": [{ "n": 1, "x": 89, "y": 213.4, "w": 642, "h": 30 }, { "n": 2, "x": 89, "y": 573.1, "w": 642, "h": 116.1 }, { "n": 3, "x": 67, "y": 731.9, "w": 686, "h": 132.1 }] }, "sc_rq": { "src": "img/sc_rq.webp?v=75886bfc", "w": 1178, "h": 329.3, "spots": [{ "n": 1, "x": 37, "y": 139.1, "w": 1104, "h": 78.6 }, { "n": 2, "x": 1031, "y": 223.7, "w": 106, "h": 49.8 }] }, "sc_gl": { "src": "img/sc_gl.webp?v=511610a4", "w": 1178, "h": 709.6, "spots": [{ "n": 1, "x": 37, "y": 107.5, "w": 1104, "h": 51.5 }, { "n": 2, "x": 37, "y": 185.1, "w": 662.4, "h": 51.5 }, { "n": 3, "x": 699.4, "y": 159, "w": 220.8, "h": 77.6 }, { "n": 4, "x": 37, "y": 295.3, "w": 1104, "h": 33.5 }, { "n": 5, "x": 37, "y": 368.6, "w": 1104, "h": 300 }] }, "sc_trash": { "src": "img/sc_trash.webp?v=8c3f1104", "w": 1178, "h": 308.2, "spots": [{ "n": 1, "x": 910, "y": 150.8, "w": 106, "h": 49.8 }, { "n": 2, "x": 137.1, "y": 81.4, "w": 119.1, "h": 52.5 }, { "n": 3, "x": 252.2, "y": 81.4, "w": 134.1, "h": 52.5 }, { "n": 4, "x": 1016, "y": 150.8, "w": 121, "h": 49.8 }] }, "sc_ai": { "src": "img/sc_ai.webp?v=e5f0f199", "w": 1178, "h": 991.7, "spots": [{ "n": 1, "x": 994.5, "y": 12, "w": 146.5, "h": 32.8 }, { "n": 2, "x": 39, "y": 283.8, "w": 1100, "h": 336.3 }, { "n": 3, "x": 86, "y": 496.8, "w": 882.5, "h": 37.8 }, { "n": 4, "x": 86, "y": 534.6, "w": 882.5, "h": 47.9 }, { "n": 5, "x": 37, "y": 627.1, "w": 1104, "h": 134.9 }, { "n": 6, "x": 39, "y": 917, "w": 1100, "h": 62.8 }, { "n": 7, "x": 949.4, "y": 51.8, "w": 180.6, "h": 48 }] }, "sc_aihow": { "src": "img/sc_aihow.webp?v=767ef825", "w": 1178, "h": 889.1, "spots": [{ "n": 1, "x": 73, "y": 224.8, "w": 225.5, "h": 56 }, { "n": 2, "x": 86, "y": 327.8, "w": 1040, "h": 175.3 }, { "n": 3, "x": 86, "y": 524.8, "w": 273.7, "h": 44.7 }, { "n": 4, "x": 86, "y": 578.5, "w": 1040, "h": 69.3 }, { "n": 5, "x": 224.2, "y": 828.8, "w": 177.3, "h": 46.3 }] }, "sc_ai2": { "src": "img/sc_ai2.webp?v=eca1e309", "w": 1178, "h": 906.6, "spots": [{ "n": 1, "x": 652.4, "y": 371.8, "w": 31, "h": 26 }, { "n": 2, "x": 86, "y": 573.9, "w": 150.6, "h": 38 }, { "n": 3, "x": 86, "y": 714.4, "w": 1040, "h": 32.5 }] }, "sc_grow": { "src": "img/sc_grow.webp?v=aa6fa5b4", "w": 1178, "h": 700, "spots": [{ "n": 1, "x": 62, "y": 101.4, "w": 496, "h": 409.5 }, { "n": 2, "x": 62, "y": 525, "w": 496, "h": 94.1 }, { "n": 3, "x": 62, "y": 429.4, "w": 496, "h": 81.5 }, { "n": 4, "x": 595, "y": 76.4, "w": 546, "h": 35.2 }, { "n": 5, "x": 12, "y": -9, "w": 1154, "h": 865 }] } };
     slides.forEach((s, i) => { const pg = s.querySelector('.s-foot .pg'); if (pg)
         pg.innerHTML = pad(i + 1) + '<i>/</i>' + pad(N); });
     const W = {};
